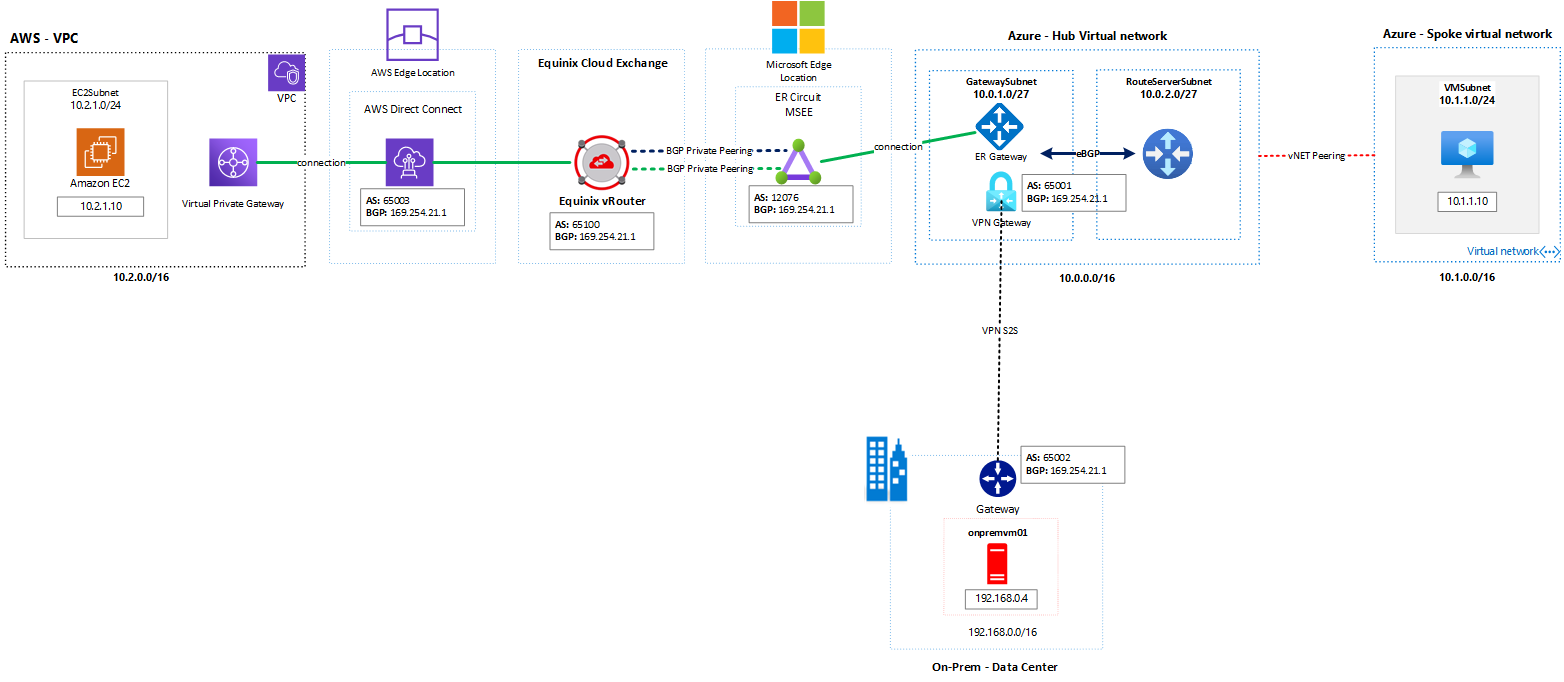
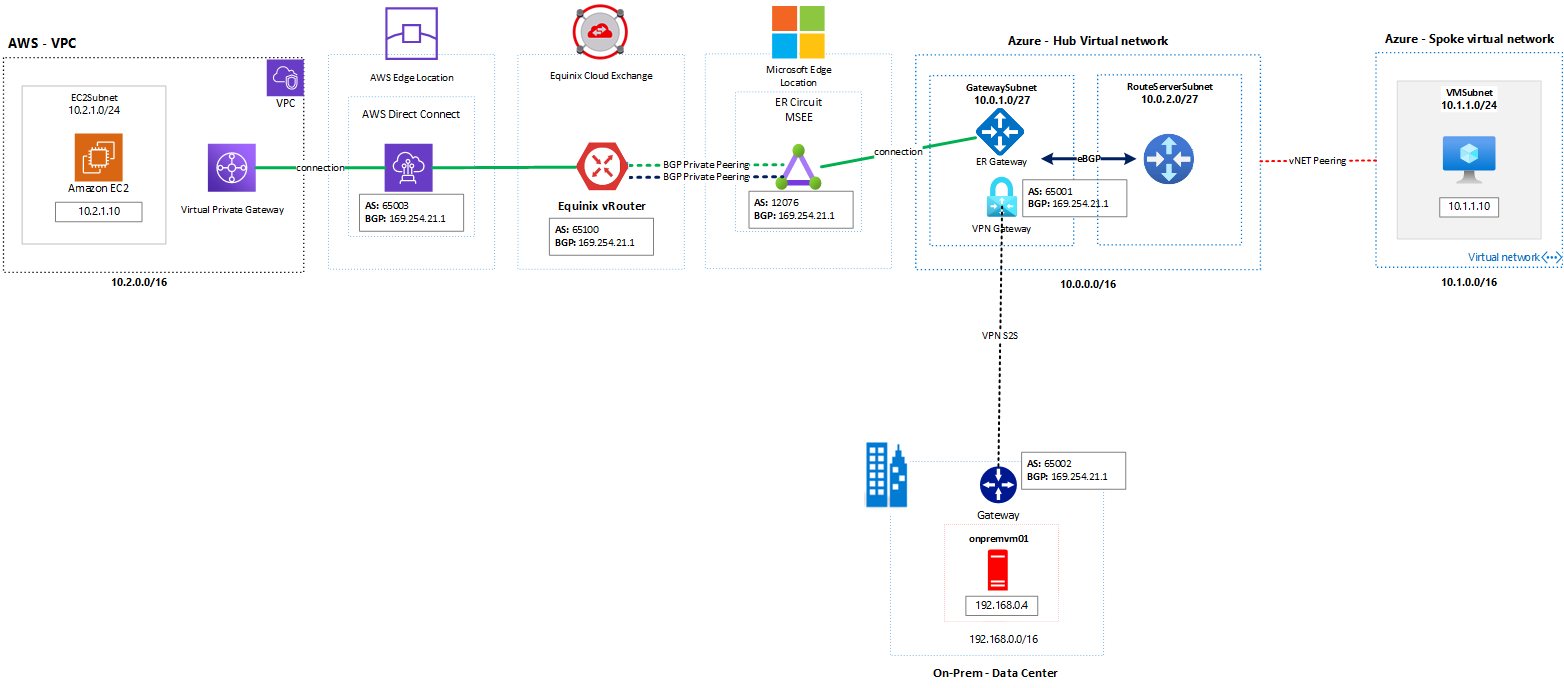
updates

diff --git a/Network/routeserver-transit-er-gw/README.md b/Network/routeserver-transit-er-gw/README.md
@@ -7,6 +7,9 @@ There is includes billable components of Equinix. You can also [check out the Eq
 
 > Choose the regions in the cloud providers near the Equinix Cloud Exchange (ECX). 
 
+ [ExpressRoute partners and peering locations](https://docs.microsoft.com/en-us/azure/expressroute/expressroute-locations-providers)</br>
+ [AWS Direct Connect Locations](https://aws.amazon.com/directconnect/locations/)
+
 The following diagram shows the architecture that you create in this article:
 
 ![Network Architecture](./images/lab-architeture.png)
@@ -16,7 +19,7 @@ The following diagram shows the architecture that you create in this article:
 
  **References:**</br>
  [What is Azure Route Server](https://docs.microsoft.com/en-us/azure/route-server/overview)</br>
- [Azure Route Server: super powers for your Network Virtual Appliance](https://blog.cloudtrooper.net/2021/03/03/azure-route-server-super-powers-for-your-network-virtual-appliance/)</br>
+ [Azure Route Server: super powers for your Network Virtual Appliance](https://blog.cloudtrooper.net/2021/03/03/azure-route-server-super-powers-for-your-network-virtual-appliance/)
  
 
 ## Prerequisites
